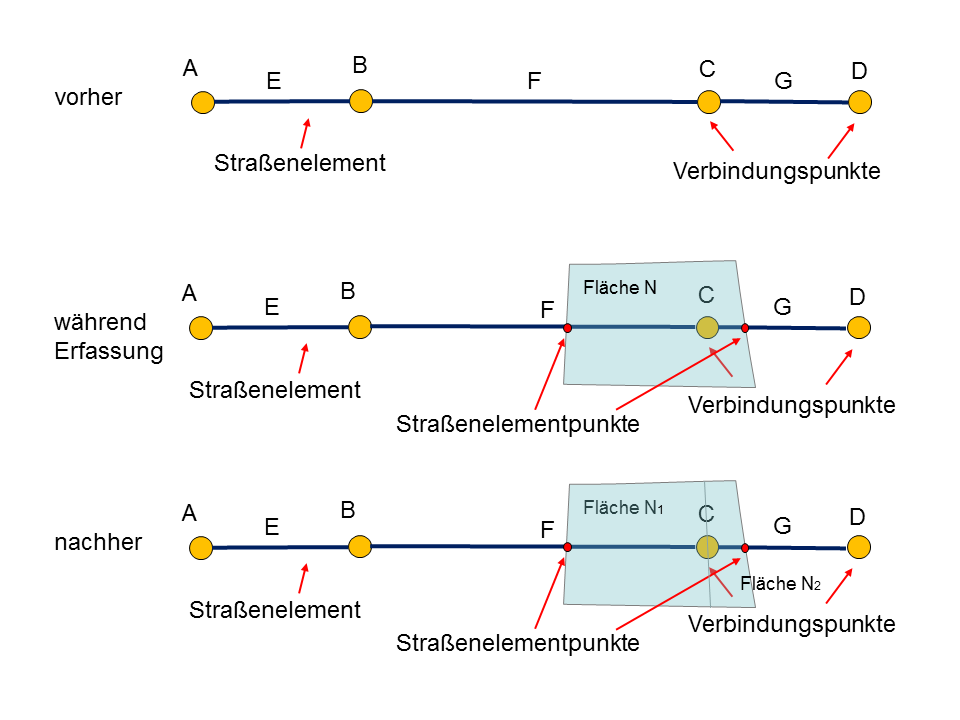
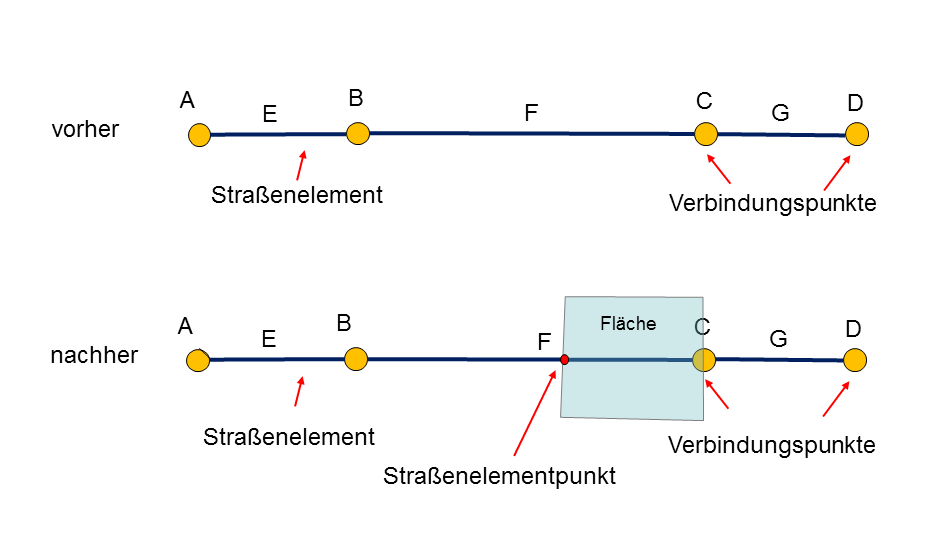
Korrekturen nach Verständigung zwischen Zweckverband GVM und HRO am 18.10.2018

diff --git a/source/flaechen/flaeche-bearbeiten-zeichnen.rst b/source/flaechen/flaeche-bearbeiten-zeichnen.rst
@@ -10,15 +10,11 @@ Fläche mittels Zeichnen bearbeiten (Geometrie ändern)
 Geometrie
 ---------
 
-#. Verschiebung der Stützpunkte einer Fläche als geschlossenes Polygon (**noch** zu realisieren auf **Applikationsebene**)
-#. Anpassung der Straßenelementpunkte überall dort, wo die Fläche Straßenelemente schneidet (**noch** zu realisieren auf **Datenbankebene**)
-#. falls Fläche über einen oder mehrere Verbindungspunkte hinausgeht: Auftrennung der Fläche an jedem dieser Verbindungspunkte (jeweilige Auftrennungskante beginnt „links“ in jenem Punkt auf der Flächenaußenkante, der die kürzeste Entfernung zum Verbindungspunkt aufweist, geht durch den Verbindungspunkt und endet „rechts“ in jenem Punkt auf der Flächenaußenkante, der die kürzeste Entfernung zum Verbindungspunkt aufweist) (**noch** zu realisieren auf **Datenbankebene**)
-#. falls Fläche aufgetrennt wurde und Straßenelementpunkte nach wie vor existieren bzw. entstanden sind: alte Teilelemente löschen und Teilelemente auf Straßenelementen bilden (**noch** zu realisieren auf **Datenbankebene**)
-#. falls Fläche nicht aufgetrennt wurde und Straßenelementpunkte nach wie vor existieren bzw. entstanden sind: altes Teilelement löschen und Teilelement auf Straßenelement neu bilden (**noch** zu realisieren auf **Datenbankebene**)
-#. falls Fläche aufgetrennt wurde und Straßenelementpunkte nach wie vor existieren bzw. entstanden sind: Verknüpfung der jeweiligen Teilelemente und des jeweils betroffenen Straßenelementes (Erfüllung der Bedingung 1..1-Verknüpfung zwischen Straßenelement und Fläche) mit der jeweiligen Fläche (**noch** zu realisieren auf **Datenbankebene**)
-#. falls Fläche nicht aufgetrennt wurde und Straßenelementpunkte nach wie vor existieren bzw. entstanden sind: Neuverknüpfung des Teilelementes und des betroffenen Straßenelementes (Erfüllung der Bedingung 1..1-Verknüpfung zwischen Straßenelement und Fläche) mit der Fläche (**noch** zu realisieren auf **Datenbankebene**)
-#. falls Fläche aufgetrennt wurde und keine Straßenelementpunkte nach wie vor existieren bzw. entstanden sind: Verknüpfung des jeweils betroffenen Straßenelementes (Erfüllung der Bedingung 1..1-Verknüpfung zwischen Straßenelement und Fläche) mit der jeweiligen Fläche (**noch** zu realisieren auf **Datenbankebene**)
-#. falls Fläche nicht aufgetrennt wurde und keine Straßenelementpunkte nach wie vor existieren bzw. entstanden sind: Neuverknüpfung des betroffenen Straßenelementes (Erfüllung der Bedingung 1..1-Verknüpfung zwischen Straßenelement und Fläche) mit der Fläche (**noch** zu realisieren auf **Datenbankebene**)
+#. Verschiebung der Stützpunkte einer Fläche als geschlossenes Polygon, und zwar nur auf *einem* Straßenelement (also zwischen zwei Verbindungspunkten) (**noch** zu realisieren auf **Applikationsebene**)
+#. Anpassung der Straßenelementpunkte überall dort, wo die Fläche Straßenelemente schneidet und dabei *nicht* durch einen Verbindungspunkt geht (**noch** zu realisieren auf **Datenbankebene**)
+#. falls Straßenelementpunkte nach wie vor existieren bzw. entstanden sind: altes Teilelement löschen und Teilelement auf Straßenelement neu bilden (**noch** zu realisieren auf **Datenbankebene**)
+#. falls Straßenelementpunkte nach wie vor existieren bzw. entstanden sind: Neuverknüpfung des Teilelementes, der Straßenelementpunkte und des betroffenen Straßenelementes mit der Fläche – Erfüllung der Bedingung der Verknüpfung zwischen Straßenelement und Fläche (**noch** zu realisieren auf **Datenbankebene**)
+#. falls nach wie vor keine Straßenelementpunkte existieren bzw. entstanden sind: Neuverknüpfung des betroffenen Straßenelementes mit der Fläche – Erfüllung der Bedingung der Verknüpfung zwischen Straßenelement und Fläche (**noch** zu realisieren auf **Datenbankebene**)
 #. Prüfung der Topologie (**noch** zu realisieren auf **Datenbankebene**)
 
 **Anmerkung:** Im Resultat ist dieser Anwendungsfall identisch mit dem Anwendungsfall :doc:`../flaechen/flaeche-bearbeiten-trapezmodell`, da in beiden Fällen die Applikationsebene einfach eine Fläche an die Datenbankebene übergibt. Nur die konstruktionsbezogene Herangehensweise auf Applikationsebene ist unterschiedlich. Grundsätzlich gilt: Wurde eine Fläche mittels Zeichnen erfasst, soll sie dennoch mittels Stationierung und Querprofil weiterbearbeitet werden können.
@@ -31,3 +27,10 @@ Sachdaten
 * automatisierte Neuberechnung des Flächeninhaltes in Quadratmetern (**noch** zu realisieren auf **Datenbankebene**)
 
 falls Fläche aufgetrennt wurde: siehe Fläche mittels Zeichnen erfassen, Abschnitt :ref:`Sachdaten <flaeche-bearbeiten-zeichnen_sachdaten>`
+
+.. _flaeche-bearbeiten-zeichnen_verknuepfungen:
+
+Verknüpfungen
+-------------
+
+* optionale Anpassung aller gemäß Datenbankmodell verpflichtenden Verknüpfungen (**noch** zu realisieren auf **Applikationsebene**)

diff --git a/source/flaechen/flaeche-erfassen-zeichnen.rst b/source/flaechen/flaeche-erfassen-zeichnen.rst
@@ -10,15 +10,11 @@ Fläche mittels Zeichnen erfassen
 Geometrie
 ---------
 
-#. Erfassung einer Fläche als geschlossenes Polygon durch Erfassung von Stützpunkten (**noch** zu realisieren auf **Applikationsebene**)
-#. Erstellung von Straßenelementpunkten überall dort, wo die Fläche Straßenelemente schneidet (**noch** zu realisieren auf **Datenbankebene**)
-#. falls Fläche über einen oder mehrere Verbindungspunkte hinausgeht: Auftrennung der Fläche an jedem dieser Verbindungspunkte (jeweilige Auftrennungskante beginnt „links“ in jenem Punkt auf der Flächenaußenkante, der die kürzeste Entfernung zum Verbindungspunkt aufweist, geht durch den Verbindungspunkt und endet „rechts“ in jenem Punkt auf der Flächenaußenkante, der die kürzeste Entfernung zum Verbindungspunkt aufweist) (**noch** zu realisieren auf **Datenbankebene**)
-#. falls Fläche aufgetrennt wurde und Straßenelementpunkte entstanden sind: Teilelemente auf Straßenelementen bilden (**noch** zu realisieren auf **Datenbankebene**)
-#. falls Fläche nicht aufgetrennt wurde und Straßenelementpunkte entstanden sind: Teilelement auf Straßenelement bilden (**noch** zu realisieren auf **Datenbankebene**)
-#. falls Fläche aufgetrennt wurde und Straßenelementpunkte entstanden sind: Verknüpfung der jeweiligen Teilelemente und des jeweils betroffenen Straßenelementes (Erfüllung der Bedingung 1..1-Verknüpfung zwischen Straßenelement und Fläche) mit der jeweiligen Fläche (**noch** zu realisieren auf **Datenbankebene**)
-#. falls Fläche nicht aufgetrennt wurde und Straßenelementpunkte entstanden sind: Verknüpfung dew Teilelementes und des betroffenen Straßenelementes (Erfüllung der Bedingung 1..1-Verknüpfung zwischen Straßenelement und Fläche) mit der Fläche (**noch** zu realisieren auf **Datenbankebene**)
-#. falls Fläche aufgetrennt wurde und keine Straßenelementpunkte entstanden sind: Verknüpfung des jeweils betroffenen Straßenelementes (Erfüllung der Bedingung 1..1-Verknüpfung zwischen Straßenelement und Fläche) mit der jeweiligen Fläche (**noch** zu realisieren auf **Datenbankebene**)
-#. falls Fläche nicht aufgetrennt wurde und keine Straßenelementpunkte entstanden sind: Verknüpfung des betroffenen Straßenelementes (Erfüllung der Bedingung 1..1-Verknüpfung zwischen Straßenelement und Fläche) mit der Fläche (**noch** zu realisieren auf **Datenbankebene**)
+#. Erfassung einer Fläche als geschlossenes Polygon durch Erfassung von Stützpunkten, und zwar nur auf *einem* Straßenelement (also zwischen zwei Verbindungspunkten) (**noch** zu realisieren auf **Applikationsebene**)
+#. Erstellung von Straßenelementpunkten überall dort, wo die Fläche das Straßenelement schneidet und dabei *nicht* durch einen Verbindungspunkt geht (**noch** zu realisieren auf **Datenbankebene**)
+#. falls Straßenelementpunkte entstanden sind: Teilelement auf Straßenelement bilden (**noch** zu realisieren auf **Datenbankebene**)
+#. falls Straßenelementpunkte entstanden sind: Verknüpfung des Teilelementes, der Straßenelementpunkte und des betroffenen Straßenelementes mit der Fläche – Erfüllung der Bedingung der Verknüpfung zwischen Straßenelement und Fläche (**noch** zu realisieren auf **Datenbankebene**)
+#. falls keine Straßenelementpunkte entstanden sind: Verknüpfung des betroffenen Straßenelementes mit der Fläche – Erfüllung der Bedingung der Verknüpfung zwischen Straßenelement und Fläche (**noch** zu realisieren auf **Datenbankebene**)
 #. Prüfung der Topologie (**noch** zu realisieren auf **Datenbankebene**)
 
 **Anmerkung:** Im Resultat ist dieser Anwendungsfall identisch mit dem Anwendungsfall :doc:`../flaechen/flaeche-erfassen-trapezmodell`, da in beiden Fällen die Applikationsebene einfach eine Fläche an die Datenbankebene übergibt. Nur die konstruktionsbezogene Herangehensweise auf Applikationsebene ist unterschiedlich. Grundsätzlich gilt: Wurde eine Fläche mittels Zeichnen erfasst, soll sie dennoch mittels Stationierung und Querprofil weiterbearbeitet werden können.
@@ -28,7 +24,13 @@ Geometrie
 Sachdaten
 ---------
 
-* Eingabe aller gemäß Datenbankmodell verpflichtenden Verknüpfungen (**noch** zu realisieren auf **Applikationsebene**)
 * Eingabe aller verpflichtenden und optionalen Attribute (**noch** zu realisieren auf **Applikationsebene**)
 * automatisierte Erstellung aller weiteren verpflichtenden Attribute, zum Beispiel der UUID (**schon** realisiert auf **Datenbankebene** über Standardwerte)
 * automatisierte Berechnung des Flächeninhaltes in Quadratmetern (**noch** zu realisieren auf **Datenbankebene**)
+
+.. _flaeche-erfassen-zeichnen_verknuepfungen:
+
+Verknüpfungen
+-------------
+
+* Eingabe aller gemäß Datenbankmodell verpflichtenden Verknüpfungen (**noch** zu realisieren auf **Applikationsebene**)

diff --git a/source/strecken/strecke-erfassen.rst b/source/strecken/strecke-erfassen.rst
@@ -10,22 +10,27 @@ Strecke erfassen
 Geometrie
 ---------
 
-#. Erfassung des Start-Stützpunktes (**noch** zu realisieren auf **Applikationsebene**)
-#. Auswahl des betroffenen Start-Straßenelements (**noch** zu realisieren auf **Applikationsebene**)
+#. Erfassung des Start-Stützpunktes – liefert zugleich auch Start-Straßenelement (**noch** zu realisieren auf **Applikationsebene**)
 #. Fällung der Lotrechten auf das betroffene Start-Straßenelement zur Ermittlung des Start-Straßenelementpunktes (**noch** zu realisieren auf **Datenbankebene**)
-#. Erfassung des Ende-Stützpunktes (**noch** zu realisieren auf **Applikationsebene**)
-#. Auswahl des betroffenen Ende-Straßenelements (**noch** zu realisieren auf **Applikationsebene**)
+#. Erfassung des Ende-Stützpunktes – liefert zugleich auch Ende-Straßenelement (**noch** zu realisieren auf **Applikationsebene**)
 #. Fällung der Lotrechten auf das betroffene Ende-Straßenelement zur Ermittlung des Ende-Straßenelementpunktes (**noch** zu realisieren auf **Datenbankebene**)
 #. Teilelement auf Start-Straßenelement (von Start-Straßenelementpunkt bis nächsten Verbindungspunkt in Richtung Ende-Straßenelement) bilden (**noch** zu realisieren auf **Datenbankebene**)
 #. Teilelement auf Ende-Straßenelement (von nächstem Verbindungspunkt aus Richtung Start-Straßenelement bis Ende-Straßenelementpunkt) bilden (**noch** zu realisieren auf **Datenbankebene**)
-#. Verknüpfung der Teilelemente und der dazwischenliegenden Straßenelemente mit der Strecke (**noch** zu realisieren auf **Datenbankebene**)
+#. Berechnung aller zwischen dem Start-Straßenelement und dem Ende-Straßenelement liegenden Straßenelemente unter der Bedingung, dass es nur einen Weg gibt (man also ab dem Start-Straßenelement immer zu genau einem nächsten Straßenelement „springen“ kann, bis man schließlich das Ende-Straßenelement erreicht) (**noch** zu realisieren auf **Datenbankebene**); ansonsten abbrechen mit Hinweis, dass keine eindeutige Strecke ermittelt werden konnte und dass somit mehrere separate Strecken gebildet werden müssen (**noch** zu realisieren auf **Applikationsebene**)
+#. falls vorheriger Schritt nicht abgebrochen: Bildung der Strecke durch Verknüpfung des Teilelements auf dem Start-Straßenelement, des Teilelements auf dem Ende-Straßenelement und aller dazwischenliegenden Straßenelemente (**noch** zu realisieren auf **Datenbankebene**)
 
 .. _strecke-erfassen_sachdaten:
 
 Sachdaten
 ---------
 
-* Eingabe aller gemäß Datenbankmodell verpflichtenden Verknüpfungen, zum Beispiel mit einer Straße (über diese dann auch Zuordnung der Organisationseinheit, also der zuständigen Verwaltung) und einer Klassifizierung (**noch** zu realisieren auf **Applikationsebene**)
 * Eingabe aller verpflichtenden und optionalen Attribute, zum Beispiel einer Bemerkung (**noch** zu realisieren auf **Applikationsebene**)
 * automatisierte Erstellung aller weiteren verpflichtenden Attribute, zum Beispiel der UUID (**schon** realisiert auf **Datenbankebene** über Standardwerte)
 * automatisierte Berechnung der Länge in Metern (**noch** zu realisieren auf **Datenbankebene**)
+
+.. _strecke-erfassen_verknuepfungen:
+
+Verknüpfungen
+-------------
+
+* Eingabe aller gemäß Datenbankmodell verpflichtenden Verknüpfungen, zum Beispiel mit einer Straße (über diese dann auch Zuordnung der Organisationseinheit, also der zuständigen Verwaltung) und einer Klassifizierung (**noch** zu realisieren auf **Applikationsebene**)

diff --git a/source/strecken/strecke-bearbeiten.rst b/source/strecken/strecke-bearbeiten.rst
@@ -10,16 +10,15 @@ Strecke bearbeiten (Geometrie via Stützpunkte ändern)
 Geometrie
 ---------
 
-#. Verschiebung des Start-Stützpunktes (**noch** zu realisieren auf **Applikationsebene**)
-#. optionale Neuauswahl des betroffenen Start-Straßenelements (**noch** zu realisieren auf **Applikationsebene**)
-#. Fällung der Lotrechten auf das betroffene Start-Straßenelement und entsprechende Verschiebung des vorhandenen des Start-Straßenelementpunktes (**noch** zu realisieren auf **Datenbankebene**)
-#. Verschiebung des Ende-Stützpunktes (**noch** zu realisieren auf **Applikationsebene**)
-#. optionale Neuauswahl des betroffenen Ende-Straßenelements (**noch** zu realisieren auf **Applikationsebene**)
-#. Fällung der Lotrechten auf das betroffene Ende-Straßenelement und entsprechende Verschiebung des vorhandenen des Ende-Straßenelementpunktes (**noch** zu realisieren auf **Datenbankebene**)
+#. Verschiebung des Start-Stützpunktes – liefert zugleich auch das (ggf. neue) Start-Straßenelement (**noch** zu realisieren auf **Applikationsebene**)
+#. Fällung der Lotrechten auf das betroffene Start-Straßenelement und entsprechende Verschiebung des vorhandenen Start-Straßenelementpunktes (**noch** zu realisieren auf **Datenbankebene**)
+#. Verschiebung des Ende-Stützpunktes – liefert zugleich auch das (ggf. neue) Ende-Straßenelement (**noch** zu realisieren auf **Applikationsebene**) (**noch** zu realisieren auf **Applikationsebene**)
+#. Fällung der Lotrechten auf das betroffene Ende-Straßenelement und entsprechende Verschiebung des vorhandenen Ende-Straßenelementpunktes (**noch** zu realisieren auf **Datenbankebene**)
 #. Teilelement auf Start-Straßenelement (von Start-Straßenelementpunkt bis nächsten Verbindungspunkt in Richtung Ende-Straßenelement) neu bilden (**noch** zu realisieren auf **Datenbankebene**)
 #. Teilelement auf Ende-Straßenelement (von nächstem Verbindungspunkt aus Richtung Start-Straßenelement bis Ende-Straßenelementpunkt) neu bilden (**noch** zu realisieren auf **Datenbankebene**)
 #. alte Teilelemente löschen
-#. Neuverknüpfung der Teilelemente und der dazwischenliegenden Straßenelemente mit der Strecke (**noch** zu realisieren auf **Datenbankebene**)
+#. Neuberechnung aller zwischen dem Start-Straßenelement und dem Ende-Straßenelement liegenden Straßenelemente unter der Bedingung, dass es nur einen Weg gibt (man also ab dem Start-Straßenelement immer zu genau einem nächsten Straßenelement „springen“ kann, bis man schließlich das Ende-Straßenelement erreicht) (**noch** zu realisieren auf **Datenbankebene**); ansonsten abbrechen mit Hinweis, dass keine eindeutige Strecke ermittelt werden konnte und dass somit die Bearbeitung abgebrochen werden muss (**noch** zu realisieren auf **Applikationsebene**)
+#. falls vorheriger Schritt nicht abgebrochen: Neuildung der Strecke durch Neuerknüpfung des Teilelements auf dem Start-Straßenelement, des Teilelements auf dem Ende-Straßenelement und aller dazwischenliegenden Straßenelemente (**noch** zu realisieren auf **Datenbankebene**)
 
 .. _strecke-bearbeiten_sachdaten:
 
@@ -27,3 +26,10 @@ Sachdaten
 ---------
 
 ohne Änderung
+
+.. _strecke-bearbeiten_verknuepfungen:
+
+Verknüpfungen
+-------------
+
+* optionale Anpassung aller gemäß Datenbankmodell verpflichtenden Verknüpfungen (**noch** zu realisieren auf **Applikationsebene**)

diff --git a/source/strassenelemente-verbindungspunkte/strassenelement-auftrennen.rst b/source/strassenelemente-verbindungspunkte/strassenelement-auftrennen.rst
@@ -12,7 +12,6 @@ Geometrie
 
 #. Auftrennung des vorhandenen Straßenelementes an einem Punkt, das heißt Festlegung des Einfügeortes eines neuen Verbindungspunktes in vorhandene Geometrie eines Straßenelementes (**noch** zu realisieren auf **Applikationsebene**)
 #. Teilung des vorhandenen Straßenelementes in zwei neue Straßenelemente und Aktualisierung der zugehörigen Verbindungspunkte (**noch** zu realisieren auf **Datenbankebene**)
-#. Herstellung der Anknüpfung des Start- und/oder Endpunktes an das Gesamtstraßennetz (Geometrieanschluss) (**noch** zu realisieren auf **Datenbankebene** ⇒ **noch** zu realisierende Herstellung der Topologie auf **Datenbankebene**, falls möglich)
 #. Neuberechnung der Straßenelementpunkte (**noch** zu realisieren auf **Datenbankebene**)
 
 .. _strassenelement-auftrennen_sachdaten:
@@ -21,7 +20,13 @@ Sachdaten
 ---------
 
 * Übernahme oder Neueingabe aller verpflichtenden und optionalen Attribute in/für die beiden neuen Straßenelemente, zum Beispiel einer Bemerkung (**noch** zu realisieren auf **Applikationsebene**)
-* automatisierte Übernahme aller gemäß Datenbankmodell verpflichtenden Verknüpfungen in die beiden neuen Straßenelemente, zum Beispiel mit einer Straße (über diese dann auch Zuordnung der Organisationseinheit, also der zuständigen Verwaltung) und einer Klassifizierung (**noch** zu realisieren auf **Datenbankebene**)
-* automatisierte Aufteilung aller 1..1-Verknüpfungen anderer Objekte mit dem vorhandenen Straßenelement auf die beiden neuen Straßenelemente, und zwar je nach Lage des anderen Objektes zu genau einem der beiden neuen Straßenelemente, sodass nach wie vor 1..1-Verknüpfungen bestehen (**noch** zu realisieren auf **Datenbankebene**)
 * automatisierte Übernahme aller weiteren verpflichtenden Attribute in die beiden neuen Straßenelemente *außer* der UUID und der „Ident“, die jeweils neu erstellt werden (**schon** realisiert auf **Datenbankebene** über Standardwerte respektive Trigger)
 * automatisierte Neuberechnung der Längen in Metern der beiden neuen Straßenelemente (**noch** zu realisieren auf **Datenbankebene**)
+
+.. _strassenelement-auftrennen_verknuepfungen:
+
+Verknüpfungen
+-------------
+
+* automatisierte Übernahme aller gemäß Datenbankmodell verpflichtenden Verknüpfungen in die beiden neuen Straßenelemente, zum Beispiel mit einer Straße (über diese dann auch Zuordnung der Organisationseinheit, also der zuständigen Verwaltung) und einer Klassifizierung (**noch** zu realisieren auf **Datenbankebene**)
+* automatisierte Aufteilung aller Verknüpfungen anderer Objekte mit dem vorhandenen Straßenelement auf die beiden neuen Straßenelemente, und zwar je nach Lage des anderen Objektes zu genau einem der beiden neuen Straßenelemente, sodass nach wie vor Verknüpfungen bestehen (**noch** zu realisieren auf **Datenbankebene**)

diff --git a/source/flaechen/flaeche-erfassen-trapezmodell.rst b/source/flaechen/flaeche-erfassen-trapezmodell.rst
@@ -17,8 +17,8 @@ Geometrie
     * Eingabe der L- und R-Ordinaten der Querprofile
 #. Erzeugung einer Fläche als geschlossenes Polygon (**noch** zu realisieren auf **Applikationsebene**)
 #. falls Straßenelementpunkte entstanden sind: Teilelement auf Straßenelement bilden (**noch** zu realisieren auf **Datenbankebene**)
-#. falls Straßenelementpunkte entstanden sind: Verknüpfung des Teilelementes und des betroffenen Straßenelementes (Erfüllung der Bedingung 1..1-Verknüpfung zwischen Straßenelement und Fläche) mit der Fläche (**noch** zu realisieren auf **Datenbankebene**)
-#. falls keine Straßenelementpunkte entstanden sind: Verknüpfung des betroffenen Straßenelementes (Erfüllung der Bedingung 1..1-Verknüpfung zwischen Straßenelement und Fläche) mit der Fläche (**noch** zu realisieren auf **Datenbankebene**)
+#. falls Straßenelementpunkte entstanden sind: Verknüpfung des Teilelementes, der Straßenelementpunkte und des betroffenen Straßenelementes mit der Fläche – Erfüllung der Bedingung der Verknüpfung zwischen Straßenelement und Fläche (**noch** zu realisieren auf **Datenbankebene**)
+#. falls keine Straßenelementpunkte entstanden sind: Verknüpfung des betroffenen Straßenelementes mit der Fläche – Erfüllung der Bedingung der Verknüpfung zwischen Straßenelement und Fläche (**noch** zu realisieren auf **Datenbankebene**)
 #. Prüfung der Topologie (**noch** zu realisieren auf **Datenbankebene**)
 
 **Anmerkung:** Im Resultat ist dieser Anwendungsfall identisch mit dem Anwendungsfall :doc:`../flaechen/flaeche-erfassen-zeichnen`, da in beiden Fällen die Applikationsebene einfach eine Fläche an die Datenbankebene übergibt. Nur die konstruktionsbezogene Herangehensweise auf Applikationsebene ist unterschiedlich. Grundsätzlich gilt: Wurde eine Fläche mittels Stationierung und Querprofil erfasst, soll sie dennoch mittels Zeichnen weiterbearbeitet werden können.
@@ -29,7 +29,13 @@ Geometrie
 Sachdaten
 ---------
 
-* Eingabe aller gemäß Datenbankmodell verpflichtenden Verknüpfungen (**noch** zu realisieren auf **Applikationsebene**)
 * Eingabe aller verpflichtenden und optionalen Attribute (**noch** zu realisieren auf **Applikationsebene**)
 * automatisierte Erstellung aller weiteren verpflichtenden Attribute, zum Beispiel der UUID (**schon** realisiert auf **Datenbankebene** über Standardwerte)
 * automatisierte Berechnung des Flächeninhaltes in Quadratmetern (**noch** zu realisieren auf **Datenbankebene**)
+
+.. _flaeche-erfassen-trapezmodell_verknuepfungen:
+
+Verknüpfungen
+-------------
+
+* Eingabe aller gemäß Datenbankmodell verpflichtenden Verknüpfungen (**noch** zu realisieren auf **Applikationsebene**)

diff --git a/source/flaechen/flaeche-bearbeiten-trapezmodell.rst b/source/flaechen/flaeche-bearbeiten-trapezmodell.rst
@@ -16,9 +16,9 @@ Geometrie
     * optionale Verschiebung, Löschung und/oder Erfassung der dazwischenliegenden Straßenelementpunkte
     * optionale Neuingabe der L- und/oder R-Ordinaten der Querprofile
 #. Anpassung der Fläche als geschlossenes Polygon (**noch** zu realisieren auf **Applikationsebene**)
-#. falls Straßenelementpunkte nach wie vor existieren bzw. entstanden sind: altes Teilelement löschen und Teilelement auf Straßenelement bilden (**noch** zu realisieren auf **Datenbankebene**)
-#. falls Straßenelementpunkte nach wie vor existieren bzw. entstanden sind: Neuverknüpfung des Teilelementes und des betroffenen Straßenelementes (Erfüllung der Bedingung 1..1-Verknüpfung zwischen Straßenelement und Fläche) mit der Fläche (**noch** zu realisieren auf **Datenbankebene**)
-#. falls keine Straßenelementpunkte existieren bzw. entstanden sind: Neuverknüpfung des betroffenen Straßenelementes (Erfüllung der Bedingung 1..1-Verknüpfung zwischen Straßenelement und Fläche) mit der Fläche (**noch** zu realisieren auf **Datenbankebene**)
+#. falls Straßenelementpunkte entstanden sind: Teilelement auf Straßenelement bilden (**noch** zu realisieren auf **Datenbankebene**)
+#. falls Straßenelementpunkte entstanden sind: Verknüpfung des Teilelementes, der Straßenelementpunkte und des betroffenen Straßenelementes mit der Fläche – Erfüllung der Bedingung der Verknüpfung zwischen Straßenelement und Fläche (**noch** zu realisieren auf **Datenbankebene**)
+#. falls keine Straßenelementpunkte entstanden sind: Verknüpfung des betroffenen Straßenelementes mit der Fläche – Erfüllung der Bedingung der Verknüpfung zwischen Straßenelement und Fläche (**noch** zu realisieren auf **Datenbankebene**)
 #. Prüfung der Topologie (**noch** zu realisieren auf **Datenbankebene**)
 
 **Anmerkung:** Im Resultat ist dieser Anwendungsfall identisch mit dem Anwendungsfall :doc:`../flaechen/flaeche-erfassen-zeichnen`, da in beiden Fällen die Applikationsebene einfach eine Fläche an die Datenbankebene übergibt. Nur die konstruktionsbezogene Herangehensweise auf Applikationsebene ist unterschiedlich. Grundsätzlich gilt: Wurde eine Fläche mittels Stationierung und Querprofil erfasst, soll sie dennoch mittels Zeichnen weiterbearbeitet werden können.
@@ -29,3 +29,10 @@ Sachdaten
 ---------
 
 * automatisierte Neuberechnung des Flächeninhaltes in Quadratmetern (**noch** zu realisieren auf **Datenbankebene**)
+
+.. _flaeche-bearbeiten-trapezmodell_verknuepfungen:
+
+Verknüpfungen
+-------------
+
+* optionale Anpassung aller gemäß Datenbankmodell verpflichtenden Verknüpfungen (**noch** zu realisieren auf **Applikationsebene**)

diff --git a/source/flaechen/flaeche-loeschen.rst b/source/flaechen/flaeche-loeschen.rst
@@ -12,9 +12,10 @@ Geometrie
 
 siehe Präambel, Abschnitt :ref:`Historie <praeambel_historie>`
 
-#. zugehörige Straßenelementpunkte ebenfalls löschen, falls keine andere, „lebende“ Fläche mehr mit diesen Straßenelementpunkten verknüpft ist (**noch** zu realisieren auf **Datenbankebene**)
-#. zugehöriges Teilelement ebenfalls löschen, falls keine andere, „lebende“ Fläche mehr mit dem Teilelement verknüpft ist (**noch** zu realisieren auf **Datenbankebene**)
-#. Aufhebung der Verknüpfung des Teilelementes und des betroffenen Straßenelementes mit der Fläche (**noch** zu realisieren auf **Datenbankebene**)
+#. falls Straßenelementpunkte existieren: zugehörige Straßenelementpunkte ebenfalls löschen, falls keine andere, „lebende“ Fläche mehr mit diesen Straßenelementpunkten verknüpft ist (**noch** zu realisieren auf **Datenbankebene**)
+#. falls Straßenelementpunkte existieren: Aufhebung der Verknüpfung der Straßenelemente mit der Fläche (**noch** zu realisieren auf **Datenbankebene**)
+#. falls Teilelement existiert: zugehöriges Teilelement ebenfalls löschen, falls keine andere, „lebende“ Fläche mehr mit dem Teilelement verknüpft ist (**noch** zu realisieren auf **Datenbankebene**)
+#. falls Teilelement existiert: Aufhebung der Verknüpfung des Teilelementes mit der Fläche (**noch** zu realisieren auf **Datenbankebene**)
 
 .. _flaeche-loeschen_sachdaten:
 
@@ -22,3 +23,10 @@ Sachdaten
 ---------
 
 siehe Präambel, Abschnitt :ref:`Historie <praeambel_historie>`
+
+.. _flaeche-loeschen_verknuepfungen:
+
+Verknüpfungen
+-------------
+
+* Löschung aller gemäß Datenbankmodell verpflichtenden Verknüpfungen (**noch** zu realisieren auf **Datenbankebene**)

diff --git a/source/strecken/strecke-loeschen.rst b/source/strecken/strecke-loeschen.rst
@@ -16,7 +16,7 @@ siehe Präambel, Abschnitt :ref:`Historie <praeambel_historie>`
 #. zugehörigen Ende-Straßenelementpunkt ebenfalls löschen, falls keine andere, „lebende“ Strecke mehr mit dem Ende-Straßenelementpunkt verknüpft ist (**noch** zu realisieren auf **Datenbankebene**)
 #. zugehöriges Teilelement auf Start-Straßenelement ebenfalls löschen, falls keine andere, „lebende“ Strecke mehr mit dem Teilelement verknüpft ist (**noch** zu realisieren auf **Datenbankebene**)
 #. zugehöriges Teilelement auf Ende-Straßenelement ebenfalls löschen, falls keine andere, „lebende“ Strecke mehr mit dem Teilelement verknüpft ist (**noch** zu realisieren auf **Datenbankebene**)
-#. Aufhebung der Verknüpfung der Teilelemente und der dazwischenliegenden Straßenelemente mit der Strecke (**noch** zu realisieren auf **Datenbankebene**)
+#. Löschung der Strecke durch Aufhebung der Verknüpfung des Teilelements auf dem Start-Straßenelement, des Teilelements auf dem Ende-Straßenelement und aller dazwischenliegenden Straßenelemente (**noch** zu realisieren auf **Datenbankebene**)
 
 .. _strecke-loeschen_sachdaten:
 
@@ -24,3 +24,10 @@ Sachdaten
 ---------
 
 siehe Präambel, Abschnitt :ref:`Historie <praeambel_historie>`
+
+.. _strecke-loeschen_verknuepfungen:
+
+Verknüpfungen
+-------------
+
+* Löschung aller gemäß Datenbankmodell verpflichtenden Verknüpfungen (**noch** zu realisieren auf **Datenbankebene**)

diff --git a/source/strassenelemente-verbindungspunkte/strassenelement-bearbeiten.rst b/source/strassenelemente-verbindungspunkte/strassenelement-bearbeiten.rst
@@ -11,9 +11,6 @@ Geometrie
 ---------
 
 #. Erfassung, Verschiebung oder Löschung eines (neuen) Stützpunktes in der vorhandenen Geometrie eines Straßenelementes (**noch** zu realisieren auf **Applikationsebene**)
-#. Neuherstellung der Anknüpfung des Start- und/oder Endpunktes an das Gesamtstraßennetz (Geometrieanschluss) (**noch** zu realisieren auf **Datenbankebene** ⇒ **noch** zu realisierende Herstellung der Topologie auf **Datenbankebene**, falls möglich)
-#. Neuberechnung der Straßenelementpunkte (**noch** zu realisieren auf **Datenbankebene**)
-#. Verhinderung von „Schmetterlingsflächen“ (**noch** zu realisieren auf **Datenbankebene**)
 
 .. _strassenelement-bearbeiten_sachdaten:
 
@@ -21,3 +18,11 @@ Sachdaten
 ---------
 
 * automatisierte Neuberechnung der Länge in Metern (**noch** zu realisieren auf **Datenbankebene**)
+
+.. _strassenelement-bearbeiten_verknuepfungen:
+
+Verknüpfungen
+-------------
+
+* Beibehaltung aller Straßenelementpunkte und Verknüpfungen anderer Objekte mit dem bearbeiteten Straßenelement sowie keinerlei Änderung oder Löschung verknüpfter anderer Objekte (**noch** zu realisieren auf **Datenbankebene**)
+* Aufführung aller Straßenelementpunkte sowie verknüpfter anderer Objekte und Aufforderung zu deren Überprüfung bzw. Anpassung oder Löschung (**noch** zu realisieren auf **Applikationsebene**)

diff --git a/source/strassenelemente-verbindungspunkte/strassenelement-loeschen.rst b/source/strassenelemente-verbindungspunkte/strassenelement-loeschen.rst
@@ -13,7 +13,6 @@ Geometrie
 siehe Präambel, Abschnitt :ref:`Historie <praeambel_historie>`
 
 #. zugehörige Verbindungspunkte ebenfalls löschen, falls kein anderes, „lebendes“ Straßenelement mehr mit den Verbindungspunkten verknüpft ist (**noch** zu realisieren auf **Datenbankebene**)
-#. zugehörige Straßenelementpunkte ebenfalls löschen (**noch** zu realisieren auf **Datenbankebene**)
 
 .. _strassenelement-loeschen_sachdaten:
 
@@ -21,3 +20,11 @@ Sachdaten
 ---------
 
 siehe Präambel, Abschnitt :ref:`Historie <praeambel_historie>`
+
+.. _strassenelement-loeschen_verknuepfungen:
+
+Verknüpfungen
+-------------
+
+* Beibehaltung aller zugehörigen Straßenelementpunkte und Verknüpfungen anderer Objekte mit dem gelöschten Straßenelement sowie keinerlei Änderung oder Löschung verknüpfter anderer Objekte (**noch** zu realisieren auf **Datenbankebene**)
+* Aufführung aller Straßenelementpunkte sowie verknüpfter anderer Objekte und Aufforderung zu deren Überprüfung bzw. Anpassung oder Löschung – dabei Implementierung zweier Handlungsmöglichkeiten pro Objekt: a) automatisierte Zuordnung zum nächstgelegenen Straßenelement der Gemeinde, b) manuelle Zuordnung eines beliebigen Straßenelements (**noch** zu realisieren auf **Applikationsebene**)

diff --git a/source/strassenelemente-verbindungspunkte/strassenelement-erfassen.rst b/source/strassenelemente-verbindungspunkte/strassenelement-erfassen.rst
@@ -19,7 +19,13 @@ Geometrie
 Sachdaten
 ---------
 
-* Eingabe aller gemäß Datenbankmodell verpflichtenden Verknüpfungen, zum Beispiel mit einer Straße (über diese dann auch Zuordnung der Organisationseinheit, also der zuständigen Verwaltung) und einer Klassifizierung (**noch** zu realisieren auf **Applikationsebene**)
 * Eingabe aller verpflichtenden und optionalen Attribute, zum Beispiel einer Bemerkung (**noch** zu realisieren auf **Applikationsebene**)
 * automatisierte Erstellung aller weiteren verpflichtenden Attribute, zum Beispiel der UUID und der „Ident“ (**schon** realisiert auf **Datenbankebene** über Standardwerte respektive Trigger)
 * automatisierte Berechnung der Länge in Metern (**noch** zu realisieren auf **Datenbankebene**)
+
+.. _strassenelement-erfassen_verknuepfungen:
+
+Verknüpfungen
+-------------
+
+* Eingabe aller gemäß Datenbankmodell verpflichtenden Verknüpfungen, zum Beispiel mit einer Straße (über diese dann auch Zuordnung der Organisationseinheit, also der zuständigen Verwaltung) und einer Klassifizierung (**noch** zu realisieren auf **Applikationsebene**)
